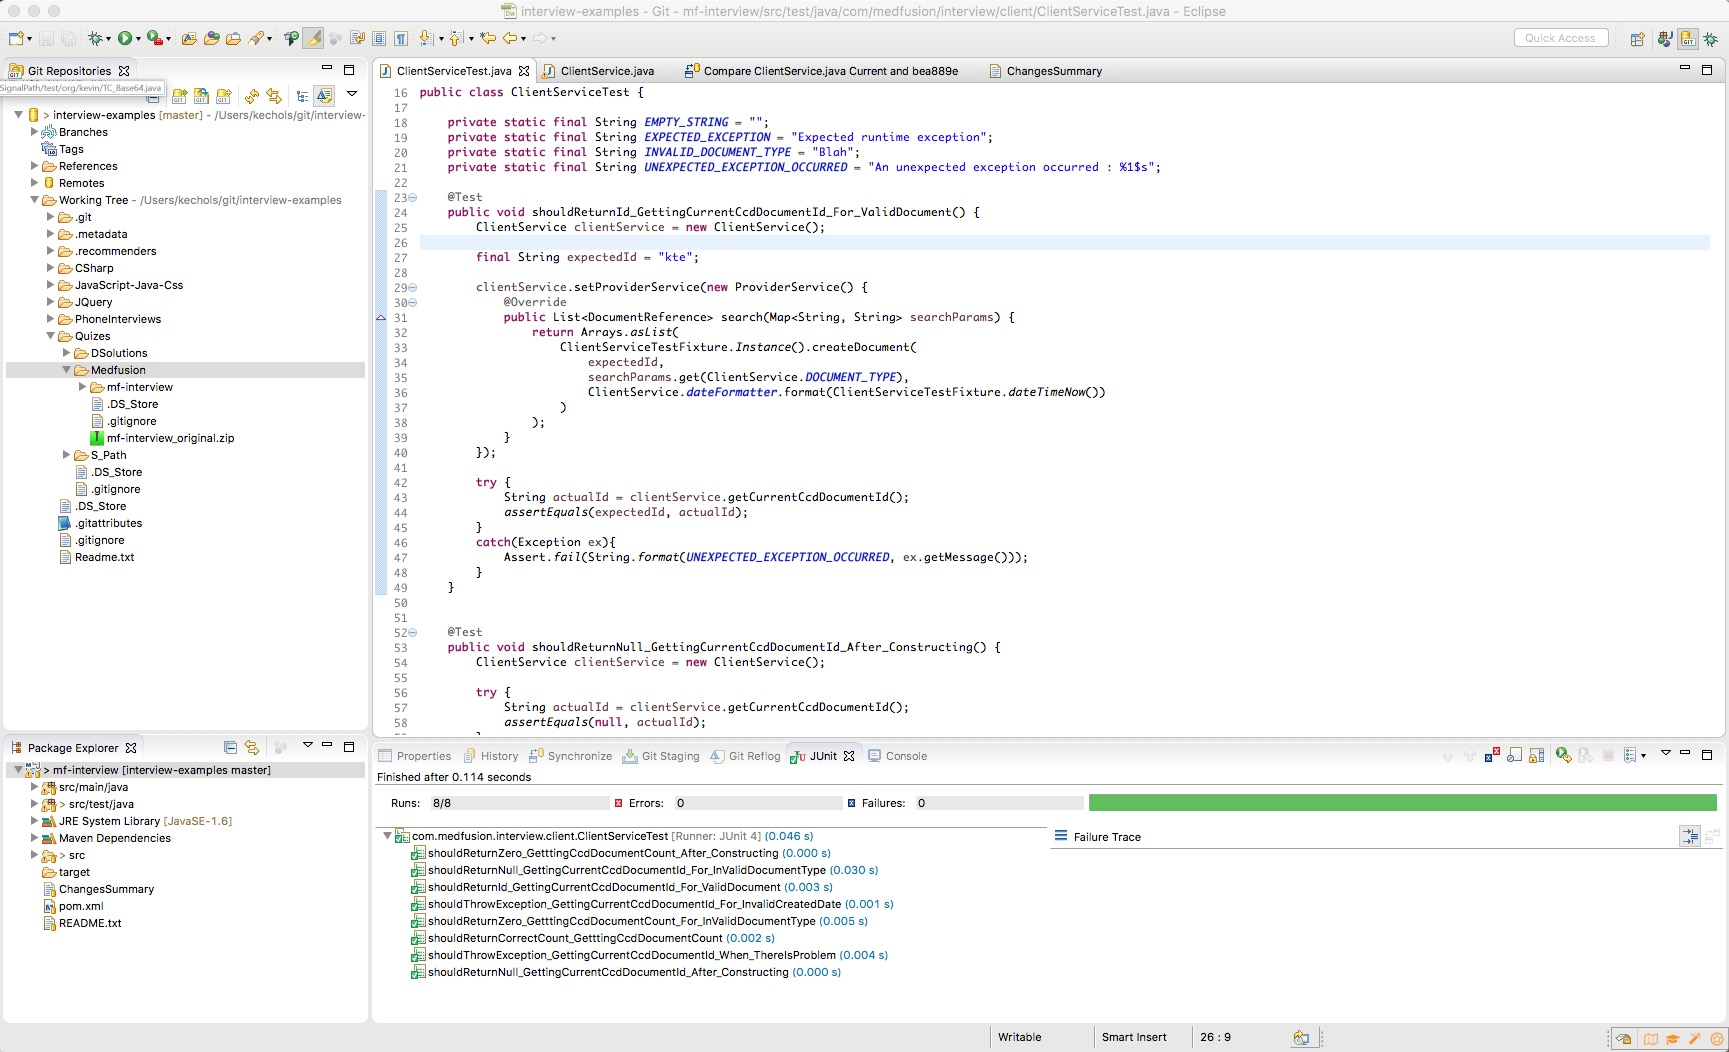
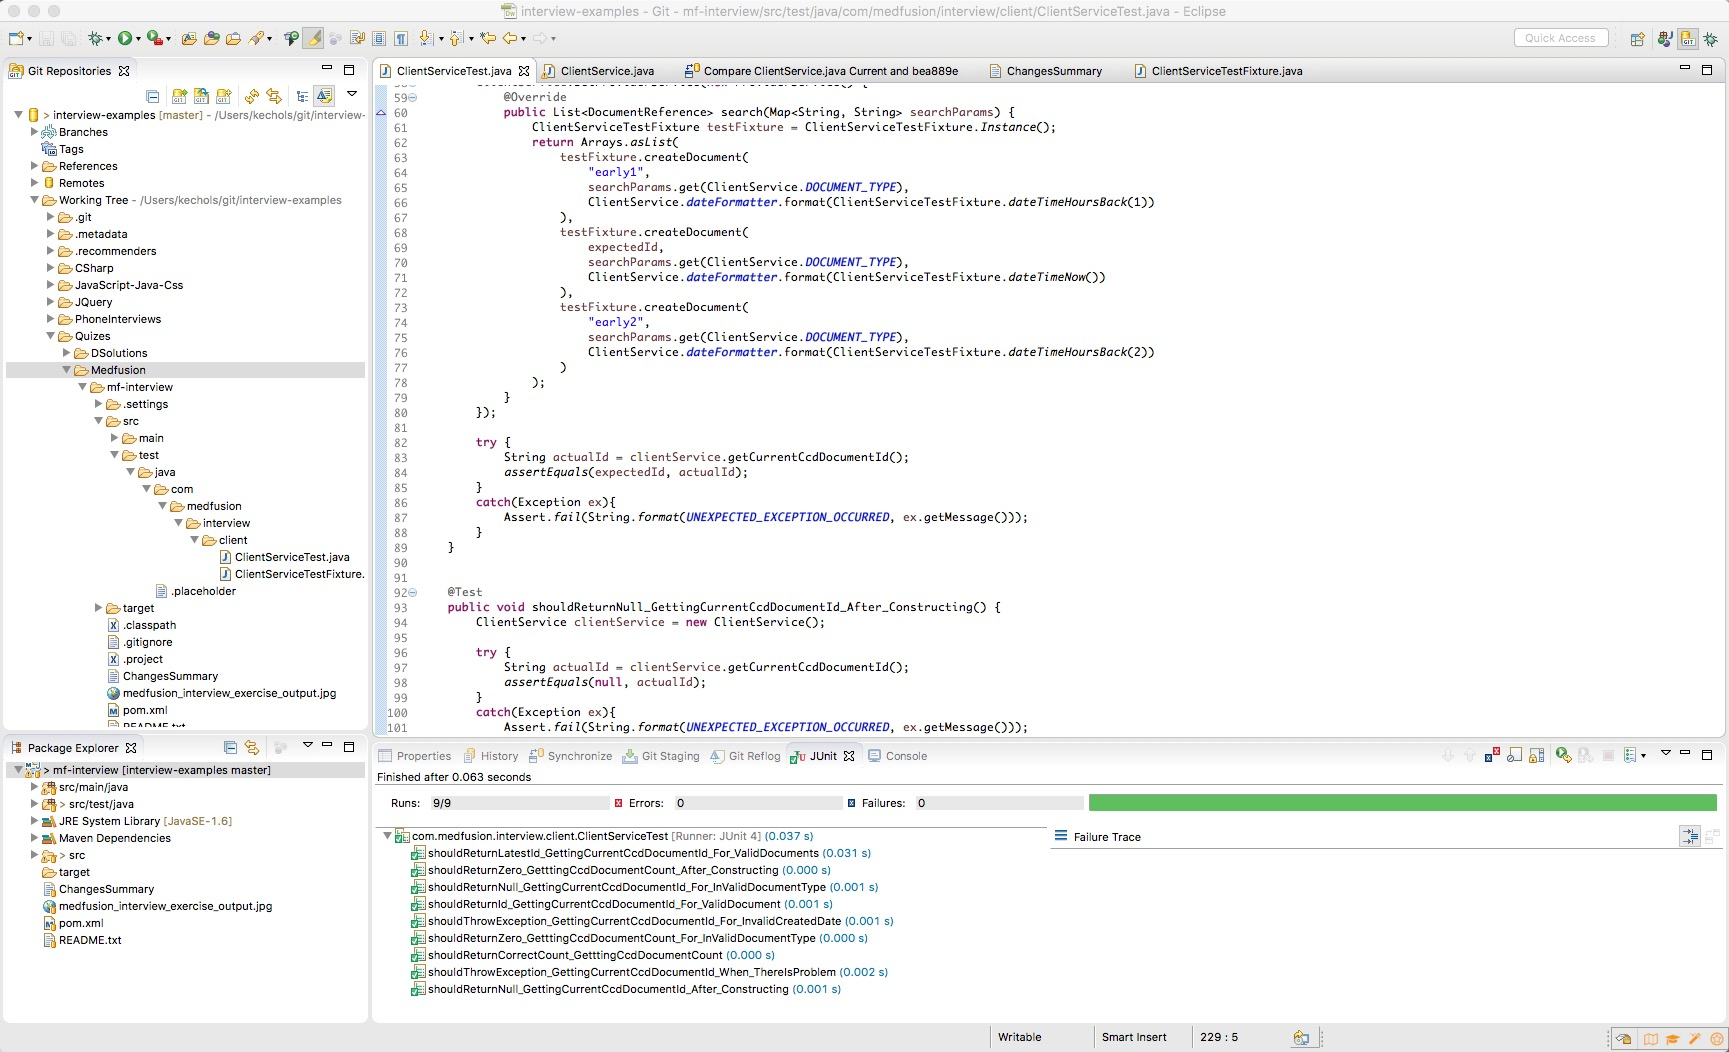
Forgot to include the test which verifies that GetCurrentCcdDuccentId brings back the latest DocumentReference

diff --git a/Quizes/Medfusion/mf-interview/src/test/java/com/medfusion/interview/client/ClientServiceTest.java b/Quizes/Medfusion/mf-interview/src/test/java/com/medfusion/interview/client/ClientServiceTest.java
@@ -50,6 +50,46 @@ public class ClientServiceTest {
 	
 	
 	@Test
+    public void shouldReturnLatestId_GettingCurrentCcdDocumentId_For_ValidDocuments() {
+		ClientService clientService = new ClientService();
+		
+		final String expectedId = "latest";
+		
+		clientService.setProviderService(new ProviderService() {
+			@Override
+			public List<DocumentReference> search(Map<String, String> searchParams) {
+				ClientServiceTestFixture testFixture = ClientServiceTestFixture.Instance();
+				return Arrays.asList(
+					testFixture.createDocument(
+						"early1", 
+						searchParams.get(ClientService.DOCUMENT_TYPE), 
+						ClientService.dateFormatter.format(ClientServiceTestFixture.dateTimeHoursBack(1))
+					),
+					testFixture.createDocument(
+						expectedId, 
+						searchParams.get(ClientService.DOCUMENT_TYPE), 
+						ClientService.dateFormatter.format(ClientServiceTestFixture.dateTimeNow())
+					),
+					testFixture.createDocument(
+						"early2", 
+						searchParams.get(ClientService.DOCUMENT_TYPE), 
+						ClientService.dateFormatter.format(ClientServiceTestFixture.dateTimeHoursBack(2))
+					)
+				);
+			}
+		});
+		
+		try {
+			String actualId = clientService.getCurrentCcdDocumentId();
+			assertEquals(expectedId, actualId);
+		}
+		catch(Exception ex){
+			Assert.fail(String.format(UNEXPECTED_EXCEPTION_OCCURRED, ex.getMessage()));
+		}
+    }
+	
+	
+	@Test
     public void shouldReturnNull_GettingCurrentCcdDocumentId_After_Constructing() {
 		ClientService clientService = new ClientService();
 		

diff --git a/Quizes/Medfusion/mf-interview/src/test/java/com/medfusion/interview/client/ClientServiceTestFixture.java b/Quizes/Medfusion/mf-interview/src/test/java/com/medfusion/interview/client/ClientServiceTestFixture.java
@@ -1,6 +1,5 @@
 package com.medfusion.interview.client;
 
-import java.text.DateFormat;
 import java.util.Calendar;
 import java.util.Date;
 
@@ -14,6 +13,15 @@ public class ClientServiceTestFixture {
 	public static Date dateTimeNow () {
 		return new Date();
 	}
+	
+	public static Date dateTimeHoursBack (int hoursBack) {
+		Date earlyDate = dateTimeNow();
+		Calendar calendar = Calendar.getInstance();
+		calendar.setTime(earlyDate);
+		calendar.add(Calendar.HOUR,  -hoursBack);
+		return calendar.getTime();
+	}
+	
 	
 	public static ClientServiceTestFixture Instance(){
 		return new ClientServiceTestFixture();
